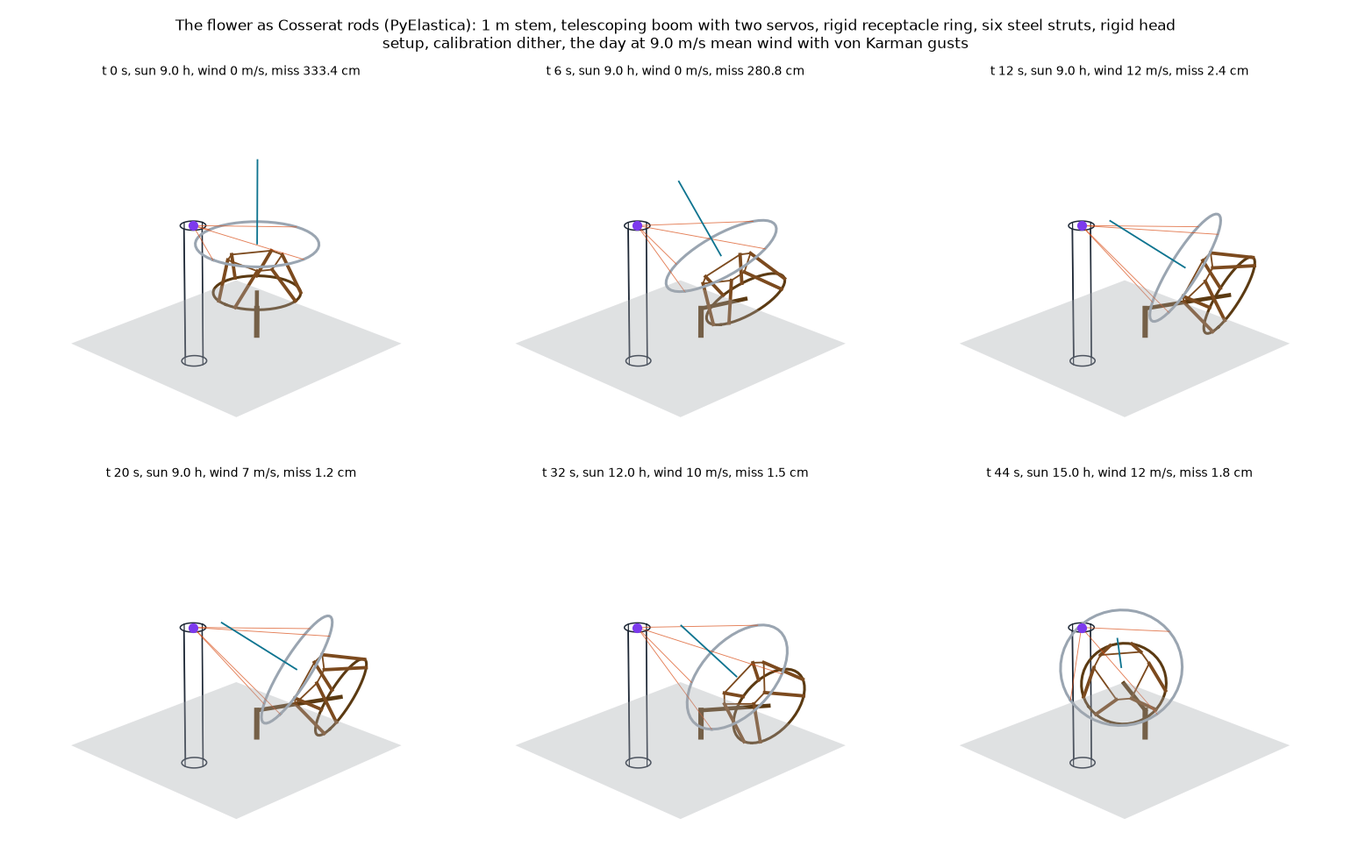
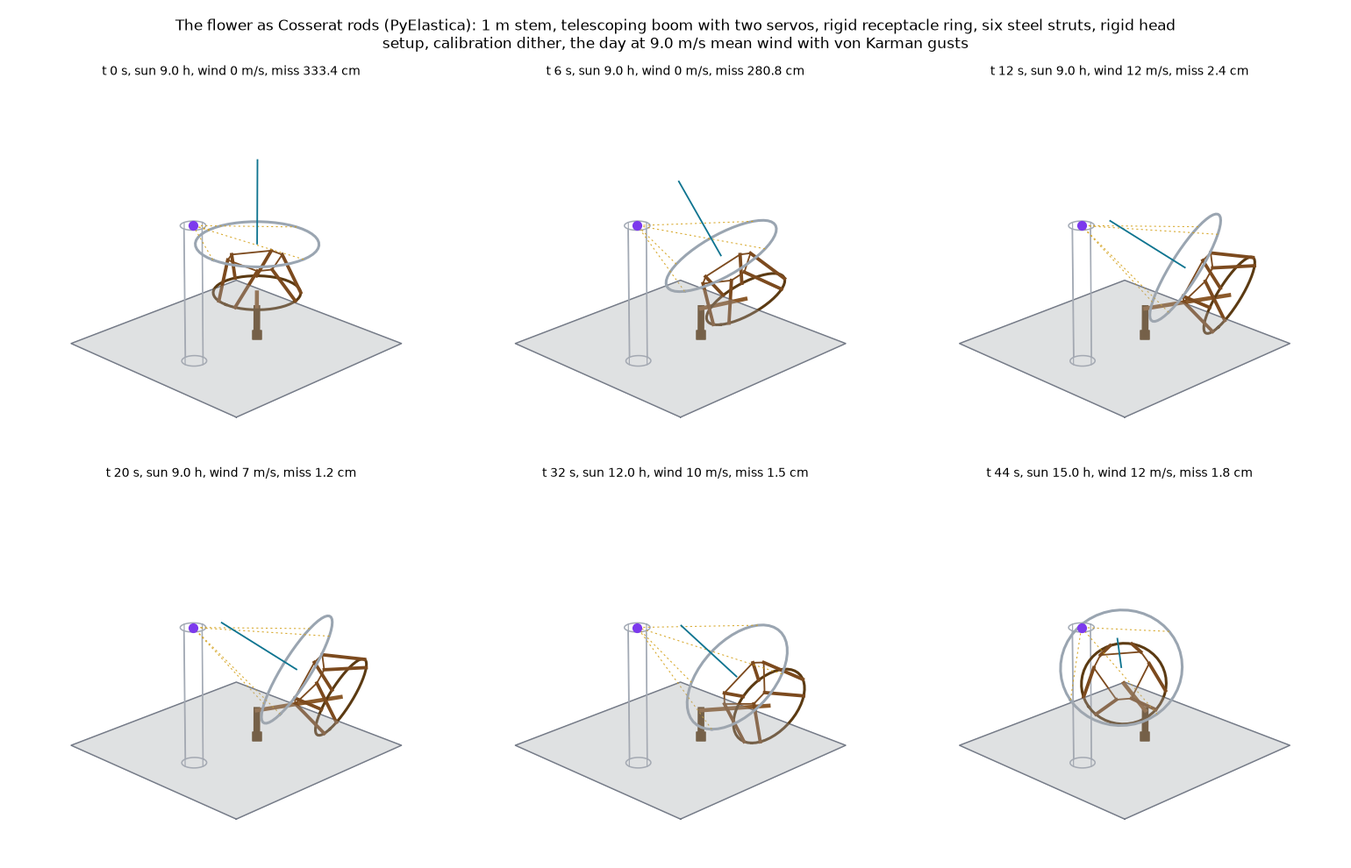
Figures that show a checkable quantity: the flexure ball as a dimensioned section with stress and stiffness against the clip; the membrane's slope change; the ring's motion around the rim; the trusses in plan; films with the stem on the deck, the pedicel labelled, rays as light

diff --git a/tutorials/design/compliant/stage3/topopt/fact_ball.py b/tutorials/design/compliant/stage3/topopt/fact_ball.py
@@ -90,29 +90,42 @@ say(f"  the joint: {k_joint/1e6:.0f} MN/m axially = {k_joint/EA_L:.2f} x the str
 say(f"  image walk from the joints' compliance at the runs' maximum strut force: {1e3*2*P_run/k_joint*2*4.0/L_LEG:.2f} mm at F per leg; twelve joints, 72 blades, no bearings, no backlash, no lubrication; the loop's clip becomes +-{1e3*clip:.0f} mm in both simulations.")
 json.dump(dict(theta_deg=float(np.degrees(theta)), clip_mm=1e3*clip, theta_run_deg=float(np.degrees(theta_run)), dl_run_mm=1e3*dl_runs, P_strut_run=P_run, P_leg=Pleg, P_leg_survival=Pleg_s, blade=dict(t_mm=1e3*t, w_mm=1e3*w, L_mm=1e3*Lb, sigma_MPa=sig/1e6, P_cr=Pcr, s1_mm=1e3*s1, s2_mm=1e3*s2), k_joint_MN_m=k_joint/1e6, k_ratio=k_joint/EA_L, lines=lines), open(os.path.join(OUT, "fact_ball.json"), "w"), indent=1)
 open(os.path.join(OUT, "fact_ball.txt"), "w").write("\n".join(lines) + "\n")
-# ---- figure: the four steps as pictures
-fig = plt.figure(figsize=(14, 4.2))
-def seg(ax, p, q, **kw): ax.plot([p[0], q[0]], [p[1], q[1]], [p[2], q[2]], **kw)
-ax = fig.add_subplot(1, 4, 1, projection="3d"); ax.set_title("1  desired DOFs: 3 rotations about C", fontsize=9)
-for a in np.eye(3): seg(ax, C - 0.08*a, C + 0.08*a, color="#0e7490", lw=2)
-seg(ax, C, C - 0.12*zhat, color="#7c4a1e", lw=6); ax.scatter(*C, color="k", s=30)
-ax = fig.add_subplot(1, 4, 2, projection="3d"); ax.set_title("2  constraint space: every line through C", fontsize=9)
-for p in np.linspace(0, np.pi, 8):
-    for q in np.linspace(0, np.pi, 4):
-        d = np.array([np.sin(q)*np.cos(p), np.sin(q)*np.sin(p), np.cos(q)]); seg(ax, C - 0.1*d, C + 0.1*d, color="#9aa5b1", lw=0.6)
-ax.scatter(*C, color="k", s=30)
-ax = fig.add_subplot(1, 4, 3, projection="3d"); ax.set_title("3  three independent lines: the tripod of wires", fontsize=9)
-for p in np.radians([0, 120, 240]):
-    d = np.array([np.sin(alpha)*np.cos(p), np.sin(alpha)*np.sin(p), np.cos(alpha)]); seg(ax, C, C + 0.1*d, color="#d9480f", lw=2)
-seg(ax, C, C - 0.12*zhat, color="#7c4a1e", lw=6); ax.scatter(*C, color="k", s=30)
-ax = fig.add_subplot(1, 4, 4, projection="3d"); ax.set_title("4  each wire = two orthogonal blades in series (Fig. 6.7a)", fontsize=9)
-for p in np.radians([0, 120, 240]):
-    d = np.array([np.sin(alpha)*np.cos(p), np.sin(alpha)*np.sin(p), np.cos(alpha)]); a = np.cross(d, [0, 0, 1.0]); a /= np.linalg.norm(a); b = np.cross(d, a)
-    for s0, n_ in ((0.01, a), (0.055, b)):
-        c0 = C + s0*d; u_ = np.cross(n_, d); pts = np.array([c0 + 0.02*d*sx + 0.012*u_*sy for sx, sy in ((0, -1), (1, -1), (1, 1), (0, 1), (0, -1))])
-        ax.plot(pts[:, 0], pts[:, 1], pts[:, 2], color="#d9480f", lw=1.5)
-seg(ax, C, C - 0.12*zhat, color="#7c4a1e", lw=6); ax.scatter(*C, color="k", s=30)
-for ax in fig.axes:
-    ax.set_xlim(-0.12, 0.12); ax.set_ylim(-0.12, 0.12); ax.set_zlim(-0.12, 0.12); ax.set_axis_off(); ax.view_init(22, -50)
-fig.suptitle("Chapter 6 (Hopkins, FACT) step by step on the flower's strut joints: a flexure ball at each of the twelve strut ends", fontsize=11)
+# ---- figure: a dimensioned section of one leg, and the design trade against the loop's clip
+fig = plt.figure(figsize=(15, 5.2))
+ax = fig.add_subplot(1, 3, 1); ax.set_aspect("equal"); ax.set_title(f"one leg of the flexure ball, section (mm): blades {1e3*t:.1f} x {1e3*w:.0f} (into the page) x {1e3*Lb:.0f} free", fontsize=9)
+d2 = np.array([np.sin(alpha), np.cos(alpha)]); n2 = np.array([np.cos(alpha), -np.sin(alpha)])          # the leg in the section plane, and its normal
+ax.plot([0, 0], [0, -60], color="#7c4a1e", lw=10, solid_capstyle="butt"); ax.text(4, -45, "strut 85 x 5.3", fontsize=8, color="#7c4a1e")
+for p_ in (0, 120, 240):
+    lw_ = 1.0 if p_ else 2.5; dd = np.array([np.sin(alpha)*np.cos(np.radians(p_)), np.cos(alpha)])
+    ax.plot([0, 70*dd[0]], [0, 70*dd[1]], color="#9aa5b1", lw=lw_, ls="-" if p_ == 0 else ":")
+for s_, lab in ((s1, "blade 1"), (s2, "blade 2")):
+    c = 1e3*s_*d2; a_, b_ = c - 0.5e3*Lb*d2, c + 0.5e3*Lb*d2
+    ax.plot([a_[0], b_[0]], [a_[1], b_[1]], color="#d9480f", lw=6, solid_capstyle="butt"); ax.annotate("", xy=c, xytext=(0, 0), arrowprops=dict(arrowstyle="<->", color="#0e7490", lw=0.8, shrinkA=0, shrinkB=0))
+    ax.text(c[0] + 6, c[1] - 2, f"{lab}: s_mid {1e3*s_:.0f} mm, factor {k_amp(s_, Lb):.0f}", fontsize=8)
+for s_ in (s1, s2):
+    for sgn in (-1, 1):
+        c = 1e3*s_*d2 + sgn*0.5e3*Lb*d2; ax.plot([c[0], c[0] + 12*n2[0]], [c[1], c[1] + 12*n2[1]], color="#5b6b7f", lw=0.6)
+ax.scatter([0], [0], color="k", s=30, zorder=5); ax.text(-22, 3, "C", fontsize=10)
+ax.text(2, 62, f"legs at {np.degrees(alpha):.0f} deg to the strut axis, 120 deg apart (dotted: the other two)", fontsize=8)
+ax.set_xlim(-30, 80); ax.set_ylim(-65, 75); ax.set_xlabel("mm"); ax.set_ylabel("mm along the strut axis")
+ax = fig.add_subplot(1, 3, 2); clips = np.array([5, 10, 15, 20, 30, 40, 60])*1e-3; ths = KIN*clips/L_LEG
+for t_, w_, Lb_, col in ((0.8e-3, 120e-3, 20e-3, "#d9480f"), (1.0e-3, 120e-3, 50e-3, "#7c4a1e"), (0.5e-3, 120e-3, 12e-3, "#0e7490")):
+    s2_ = 2*GAP + 1.5*Lb_; sig_ = k_amp(s2_, Lb_)*E_ti*t_*ths/(2*Lb_); ax.plot(1e3*clips, sig_/1e6, color=col, lw=1.5, label=f"t {1e3*t_:.1f}, L {1e3*Lb_:.0f} mm: Euler {4*np.pi**2*E_ti*w_*t_**3/12/Lb_**2/1e3:.0f} kN, joint {3*np.cos(alpha)**2*E_ti*w_*t_/Lb_/2/1e6:.0f} MN/m")
+ax.axhline(0.5*sig_ti/1e6, color="k", lw=0.8, ls="--"); ax.text(6, 0.5*sig_ti/1e6 + 15, "0.5 sigma_y Ti 6Al-4V", fontsize=8)
+ax.axvline(1e3*dl_runs, color="#9aa5b1", lw=0.8); ax.text(1e3*dl_runs + 1, 60, f"the runs used {1e3*dl_runs:.0f} mm", fontsize=8, color="#5b6b7f"); ax.axvline(1e3*clip, color="#d9480f", lw=0.8); ax.text(1e3*clip + 1, 120, f"clip chosen +-{1e3*clip:.0f} mm", fontsize=8, color="#d9480f")
+ax.set_xlabel("loop clip on a leg's length correction (mm)"); ax.set_ylabel("outer blade's bending stress (MPa)"); ax.set_ylim(0, 1400); ax.legend(fontsize=7, loc="upper left"); ax.set_title("the trade: stress at the clip, for blades that hold SF 3 on Euler at survival", fontsize=9)
+ax = fig.add_subplot(1, 3, 3); crit = []
+for c_ in clips:
+    th_ = KIN*c_/L_LEG; bst = None
+    for t_ in (0.3e-3, 0.5e-3, 0.8e-3, 1.0e-3, 1.5e-3, 2.0e-3, 3.0e-3):
+        for w_ in (20e-3, 40e-3, 60e-3, 90e-3, 120e-3):
+            for Lb_ in (5e-3, 8e-3, 12e-3, 20e-3, 30e-3, 50e-3):
+                s2_ = 2*GAP + 1.5*Lb_; sg = k_amp(s2_, Lb_)*E_ti*t_*th_/(2*Lb_); Pc = 4*np.pi**2*E_ti*w_*t_**3/12/Lb_**2; kj = 3*np.cos(alpha)**2*E_ti*w_*t_/Lb_/2
+                if sg < 0.5*sig_ti and Pc > 3*Pleg_s and (bst is None or kj > bst): bst = kj
+    crit.append(bst/EA_L if bst else np.nan)
+ax.plot(1e3*clips, crit, "o-", color="#0e7490"); ax.axhline(1.0, color="k", lw=0.8, ls="--"); ax.text(6, 1.05, "the strut's own EA/L", fontsize=8)
+ax.set_xlabel("loop clip (mm)"); ax.set_ylabel("stiffest feasible joint / the strut's EA/L"); ax.set_title("what the clip buys: joint stiffness (no blade is feasible beyond 30 mm)", fontsize=9)
+for c_, v in zip(clips, crit):
+    if np.isfinite(v): ax.text(1e3*c_ + 0.5, v + 0.15, f"{100/(1 + 2/v):.0f} % leg", fontsize=7)
+fig.suptitle("Chapter 6 (Hopkins, FACT) on the strut joints: a flexure ball at each strut end, its blades sized against the loop's clip", fontsize=10)
 fig.tight_layout(); fig.savefig(os.path.join(OUT, "fact_ball.png"), dpi=110); print("figure written")

diff --git a/tutorials/design/compliant/stage3/topopt/ground_truss.py b/tutorials/design/compliant/stage3/topopt/ground_truss.py
@@ -61,26 +61,26 @@ def optimise(tr, f, objective, vol_frac, amax, out_dof=None, iters=150, amin_rel
         if it > 30 and ch < 1e-4: break
     K = tr.stiffness(A); u = tr.solve(K, f); return A, u, hist
 KEEP = 0.05                                                                                    # one threshold for the picture and the count: members above 5 % of the cap
-def draw(ax, tr, A, amax, u=None, scale=0.0, title="", loads=None, supports=None, keep=KEEP):
-    amax_e = A.max()
-    for e in range(len(tr.M)):
+def draw(ax, tr, A, amax, u=None, scale=0.0, title="", loads=None, supports=None, keep=KEEP, proj=(0, 1)):
+    """2-D: as is; 3-D: a projection onto the axes `proj` (plan (0, 1) or elevation (0, 2)), width = area, darkness = area"""
+    amax_e = A.max(); P = lambda v: (v[proj[0]], v[proj[1]])
+    for e in np.argsort(A):
         if A[e] < keep*amax: continue
         i, j = tr.M[e]; p, q = tr.X[i], tr.X[j]
         if u is not None and scale: p = p + scale*u[tr.dim*i: tr.dim*i + tr.dim]; q = q + scale*u[tr.dim*j: tr.dim*j + tr.dim]
         g = 0.85*(1 - A[e]/amax_e); lw = 0.5 + 4.5*A[e]/amax_e
-        if tr.dim == 2: ax.plot([p[0], q[0]], [p[1], q[1]], color=(g, g, g), lw=lw, solid_capstyle="round")
-        else: ax.plot([p[0], q[0]], [p[1], q[1]], [p[2], q[2]], color=(g, g, g), lw=lw)
+        (px, py), (qx, qy) = (p, q) if tr.dim == 2 else (P(p), P(q)); ax.plot([px, qx], [py, qy], color=(g, g, g), lw=lw, solid_capstyle="round")
     if loads is not None:
         for node, vec in loads:
             p = tr.X[node]; v = np.asarray(vec, float); v = 0.15*np.ptp(tr.X, axis=0).max()*v/np.linalg.norm(v)
-            if tr.dim == 2: ax.annotate("", xy=p + v, xytext=p, arrowprops=dict(arrowstyle="->", color="#d9480f", lw=1.5))
-            else: ax.quiver(*p, *v, color="#d9480f")
+            ax.annotate("", xy=p + v, xytext=p, arrowprops=dict(arrowstyle="->", color="#d9480f", lw=1.5))
     if supports is not None:
         S = tr.X[list(supports)]
         if tr.dim == 2: ax.plot(S[:, 0], S[:, 1], "^", color="#0e7490", ms=7)
-        else: ax.scatter(S[:, 0], S[:, 1], S[:, 2], color="#0e7490", s=30)
-    ax.set_title(title, fontsize=9); ax.set_aspect("equal") if tr.dim == 2 else None
+        else: ax.plot(S[:, proj[0]], S[:, proj[1]], "o", color="#0e7490", ms=7, zorder=5)
+    ax.set_title(title, fontsize=9); ax.set_aspect("equal")
     if tr.dim == 2: ax.set_axis_off()
+    else: ax.set_xlabel("xyz"[proj[0]] + " (m)"); ax.set_ylabel("xyz"[proj[1]] + " (m)")
 # ------------------------------------------------------------------------------------------------------ chapter validations
 def grid2d(nx, ny, w, h):
     X = np.array([[w*i/nx, h*j/ny] for j in range(ny + 1) for i in range(nx + 1)]); idx = lambda i, j: j*(nx + 1) + i; return X, idx
@@ -161,8 +161,10 @@ if __name__ == "__main__":
     ax = fig.add_subplot(2, 3, 2); draw(ax, tr, A, 1.0, title=f"after Fig. 7.5: pliers-like half problem, ground structure\njaw u_out {info['u_out']:+.3f} for handle u_in {info['u_in']:+.3f}", loads=info["loads"], supports=info["supports"])
     ax = fig.add_subplot(2, 3, 5); draw(ax, tr, A, 1.0, u=u, scale=0.5, title="deformed (x0.5)", loads=info["loads"], supports=info["supports"])
     tr, A, u, f, info = case_calyx(); rep["calyx"] = {k: v for k, v in info.items() if k != "supports"}
-    ax = fig.add_subplot(2, 3, 3, projection="3d"); draw(ax, tr, A, 6e-4, title=f"the calyx: rim to six anchors, 15 m/s peak\n{info['n_members']} members, {info['mass']:.0f} kg Al, rim tilt {info['rim_tilt_mrad']:.2f} mrad", supports=info["supports"]); ax.view_init(30, -60)
+    ax = fig.add_subplot(2, 3, 3); draw(ax, tr, A, 6e-4, title=f"the calyx in plan: rim (r 2.1) to the six anchors (blue, r 1.0), 15 m/s peak\n{info['n_members']} members above 5 %, {info['mass']:.0f} kg Al asked, rim tilt {info['rim_tilt_mrad']:.2f} mrad", supports=info["supports"], proj=(0, 1))
+    th_ = np.linspace(0, 2*np.pi, 100); ax.plot(2.1*np.cos(th_), 2.1*np.sin(th_), color="#9aa5b1", lw=0.8, ls="--")
     tr, A, u, f, info = case_receptacle(); rep["receptacle"] = {k: v for k, v in info.items() if k != "supports"}
-    ax = fig.add_subplot(2, 3, 6, projection="3d"); draw(ax, tr, A, 6e-4, title=f"the receptacle ring: six anchors to the wrist, +-3.5 kN\n{info['n_members']} members, {info['mass']:.0f} kg Al, anchor {info['anchor_disp_mm']:.2f} mm", supports=info["supports"]); ax.view_init(40, -60)
+    ax = fig.add_subplot(2, 3, 6); draw(ax, tr, A, 6e-4, title=f"the receptacle in plan: the six strut anchors (r 1.5, +-3.5 kN alternating) to the wrist (blue, centre)\n{info['n_members']} members above 5 %, {info['mass']:.0f} kg Al asked, anchor moves {info['anchor_disp_mm']:.1f} mm", supports=info["supports"], proj=(0, 1))
+    for k in range(6): ax.plot(tr.X[k, 0], tr.X[k, 1], "s", color="#d9480f", ms=6)
     fig.suptitle("Chapter 7 by ground structure (Frecker): the book's two examples, then the flower's calyx and receptacle as minimum-compliance trusses", fontsize=11)
     fig.tight_layout(); fig.savefig(os.path.join(OUT, "ground_truss.png"), dpi=110); json.dump(rep, open(os.path.join(OUT, "ground_truss.json"), "w"), indent=1); print(json.dumps(rep, indent=1))

diff --git a/tutorials/design/compliant/stage3/topopt/ring_calyx.py b/tutorials/design/compliant/stage3/topopt/ring_calyx.py
@@ -162,16 +162,23 @@ json.dump(dict(T_pre=T_PRE, dp=DP, sag_mm=1e3*w0, N_rim=N_rim, slope_rim_deg=np.
                harm_static_mm=(1e3*hw_s).tolist(), harm_wind_axial_mm=(1e3*hw_d).tolist(), harm_wind_radial_mm=(1e3*hr_d).tolist(), tilt_mrad=1e3*tilt, walk_cm=1e2*walk, fig_rms_mrad=1e3*rms_fig, lines=lines), open(os.path.join(OUT, "ring_calyx.json"), "w"), indent=1)
 open(os.path.join(OUT, "ring_calyx.txt"), "w").write("\n".join(lines) + "\n")
 # ------------------------------------------------------------------ figure
-fig = plt.figure(figsize=(15, 5))
-ax = fig.add_subplot(1, 3, 1, projection="3d"); ax.set_title(f"ring (Al {1e3*D_R:.0f} x {1e3*T_R:.0f}) and the spider the ground structure kept: {int(kept.sum())} bars, {m_spider:.0f} kg", fontsize=9)
-for i, j in frame_el: ax.plot(*zip(X[i], X[j]), color="#5b3a12", lw=2.5)
-for e in range(len(M)):
+fig = plt.figure(figsize=(16, 5))
+ax = fig.add_subplot(1, 3, 1); ax.set_aspect("equal"); ax.set_title(f"plan: the ring (Al {1e3*D_R:.0f} x {1e3*T_R:.0f}) and the spider's {int(kept.sum())} bars to the six anchors (blue), width = area", fontsize=9)
+thr = np.linspace(0, 2*np.pi, 200); ax.plot(A_M*np.cos(thr), A_M*np.sin(thr), color="#5b3a12", lw=3)
+for e in np.argsort(A):
     if A[e] < 0.05*amax: continue
-    i, j = M[e]; g_ = 0.8*(1 - A[e]/A.max()); ax.plot(*zip(X[i], X[j]), color=(g_, g_, g_), lw=0.5 + 3*A[e]/A.max())
-ax.scatter(X[n_anchor0:n_anchor0 + 6, 0], X[n_anchor0:n_anchor0 + 6, 1], X[n_anchor0:n_anchor0 + 6, 2], color="#0e7490", s=30); ax.view_init(28, -60); ax.set_axis_off()
-ax = fig.add_subplot(1, 3, 2); w_img = res1["w"].numpy() - res0["w"].numpy(); w_img[~res1["inside"].numpy()] = np.nan
-im = ax.imshow(1e3*w_img.T, origin="lower", extent=[-ext, ext, -ext, ext], cmap="RdBu_r"); plt.colorbar(im, ax=ax, label="mm"); ax.set_title(f"the gust's change of the membrane (2-D FvK), rms slope error {1e3*se0:.2f} -> {1e3*se1:.2f} mrad", fontsize=9)
-ax = fig.add_subplot(1, 3, 3); nn = np.arange(7); ax.bar(nn - 0.2, 1e3*hw_d, 0.4, label="axial (mm)"); ax.bar(nn + 0.2, 1e3*hr_d, 0.4, label="radial (mm)"); ax.set_xlabel("harmonic n around the rim"); ax.set_yscale("log"); ax.legend(fontsize=8)
-ax.set_title(f"the ring's motion under the gust: n1 tilt {1e2*walk:.2f} cm at F, n>=2 figure {1e2*2*rms_fig*F_DES:.2f} cm", fontsize=9)
-fig.suptitle(f"The head as built: Mylar on a ring, pumped to f 4 at {DP:.0f} Pa; the gust at {V_PEAK} m/s through the membrane into the ring and the spider (chapter 7's ground structure) to the six anchors", fontsize=10)
+    i, j = M[e]; ax.plot([X[i, 0], X[j, 0]], [X[i, 1], X[j, 1]], color="#4a5568", lw=0.3 + 4*A[e]/A.max(), alpha=0.85)
+ax.scatter(X[n_anchor0:n_anchor0 + 6, 0], X[n_anchor0:n_anchor0 + 6, 1], color="#0e7490", s=50, zorder=5)
+for k in range(6): ax.text(X[n_anchor0 + k, 0]*1.12, X[n_anchor0 + k, 1]*1.12, f"A{k}", fontsize=8, color="#0e7490", ha="center")
+ax.annotate("wind (S)", xy=(1.9, -2.3), xytext=(0.9, -2.3), arrowprops=dict(arrowstyle="->", color="#d9480f"), fontsize=8, color="#d9480f")
+ax.set_xlim(-2.4, 2.4); ax.set_ylim(-2.5, 2.4); ax.set_xlabel("x north (m)"); ax.set_ylabel("y (m)")
+ax = fig.add_subplot(1, 3, 2); w_static = 1e3*w_s; w_gust = 1e3*w_d; ur_gust = 1e3*ur_d
+ax.plot(np.degrees(th_r), w_static - w_static.mean(), color="#9aa5b1", lw=1.2, label=f"film's pull alone, axial minus its {w_static.mean():.2f} mm piston")
+ax.plot(np.degrees(th_r), w_gust, color="#d9480f", lw=1.8, label="the gust adds, axial")
+ax.plot(np.degrees(th_r), ur_gust, color="#0e7490", lw=1.2, ls="--", label="the gust adds, radial")
+for k in range(6): ax.axvline(np.degrees(np.arctan2(X[n_anchor0 + k, 1], X[n_anchor0 + k, 0])) % 360, color="#0e7490", lw=0.5, alpha=0.5)
+ax.axhline(0, color="k", lw=0.5); ax.set_xlabel("position around the rim (deg from north)"); ax.set_ylabel("rim displacement (mm)"); ax.legend(fontsize=7, loc="upper right"); ax.set_title("how the rim moves under the 15 m/s gust (anchor azimuths as thin lines)", fontsize=9)
+ax = fig.add_subplot(1, 3, 3); nn = np.arange(7); ax.bar(nn - 0.2, 1e3*hw_d, 0.4, color="#d9480f", label="axial (mm)"); ax.bar(nn + 0.2, 1e3*hr_d, 0.4, color="#0e7490", label="radial (mm)"); ax.set_xlabel("harmonic n around the rim"); ax.set_yscale("log"); ax.legend(fontsize=8)
+ax.set_title(f"the same as harmonics: n 1 tilts the film ({1e2*walk:.2f} cm at F), n >= 2 bends it ({1e2*2*rms_fig*F_DES:.2f} cm of blur)", fontsize=9)
+fig.suptitle(f"The head as built: Mylar on a ring, pumped to f 4 at {DP:.0f} Pa; the film's pull ({2*np.pi*A_M*q_line_z/1e3:.0f} kN) and the 15 m/s gust into the ring and the spider (ground structure) to the six anchors", fontsize=10)
 fig.tight_layout(); fig.savefig(os.path.join(OUT, "ring_calyx.png"), dpi=110); print("figure written")

diff --git a/tutorials/design/compliant/stage3/topopt/membrane_wind.py b/tutorials/design/compliant/stage3/topopt/membrane_wind.py
@@ -85,14 +85,16 @@ say(f"   what the seal costs: temperature: 1 K on the trapped air is {P_ATM/293:
 say(f"   what stays: the gradient of item 4 (zero volume change, the seal does nothing): {1e3*(0.5*RHO_AIR*81*8*CM)*FIG_PER_PA:.2f} / {1e3*(0.5*RHO_AIR*144*8*CM)*FIG_PER_PA:.2f} / {1e3*(0.5*RHO_AIR*225*8*CM)*FIG_PER_PA:.2f} mrad rms of figure at 9 / 12 / 15 m/s, {1e2*2*(0.5*RHO_AIR*81*8*CM)*FIG_PER_PA*F_DES:.1f} / {1e2*2*(0.5*RHO_AIR*144*8*CM)*FIG_PER_PA*F_DES:.1f} / {1e2*2*(0.5*RHO_AIR*225*8*CM)*FIG_PER_PA*F_DES:.1f} cm at F, the membrane's floor under wind")
 json.dump(dict(P0=P0, f0=f0, df_dp=df_dp, V0_L=1e3*V0, dV_dp_L_per_Pa=1e3*dV_dp, gas_stiffness_ratio=gas, sealed_pass=atten, tilt_per_Pa=TILT_PER_PA, fig_per_Pa=FIG_PER_PA, rms_dslope_per_50Pa=rms_dslope_50, rows=rows, T_mean=Tm, mean2d_mrad=1e3*tilt2d, rms2d_mrad=1e3*fig2d, lines=lines), open(os.path.join(OUT, "membrane_wind.json"), "w"), indent=1)
 open(os.path.join(OUT, "membrane_wind.txt"), "w").write("\n".join(lines) + "\n")
-fig = plt.figure(figsize=(15, 4.6))
-ax = fig.add_subplot(1, 3, 1); ax.plot(r, np.degrees(np.abs(sp0)), label=f"at work, {P0:.0f} Pa"); ax.plot(r, np.degrees(np.abs(sp1)), label="+50 Pa uniform (wind)"); ax.set_xlabel("r (m)"); ax.set_ylabel("surface slope (deg)"); ax.legend(fontsize=8); ax.set_title(f"1-D zoned FvK: f {f0:.2f} -> {f1:.2f} m for +50 Pa", fontsize=9)
+fig = plt.figure(figsize=(16, 4.8))
+ax = fig.add_subplot(1, 3, 1); ax.plot(r, 1e3*dslope, color="#d9480f", label=f"+50 Pa on the differential: f {f0:.2f} -> {f1:.2f} m, {1e3*rms_dslope_50:.1f} mrad rms")
+ax.plot(r, 1e3*dslope*atten*58.4/50, color="#0e7490", label=f"the 9 m/s mean through a sealed plenum ({atten*58.4:.1f} Pa reaches the film)")
+ax.axhline(0, color="k", lw=0.5); ax.set_xlabel("r (m)"); ax.set_ylabel("change of surface slope (mrad)"); ax.legend(fontsize=7, loc="upper left"); ax.set_title("1-D zoned FvK: what a uniform pressure change does to the slope", fontsize=9)
 ax = fig.add_subplot(1, 3, 2); fcs = np.logspace(-3, 1, 60)
 for U in (9.0, 12.0, 15.0):
     sig_p = RHO_AIR*U*(IU*U)*CD; ax.plot(fcs, [blur_cm(sig_p*np.sqrt(karman_fraction_above(fc, U))) for fc in fcs], label=f"U {U:.0f} m/s")
 for U, c in ((9.0, "C0"), (12.0, "C1"), (15.0, "C2")): ax.axhline(blur_cm(atten*RHO_AIR*U*(IU*U)*CD), color=c, lw=0.8, ls=":")
 ax.axhline(4.9, color="k", lw=0.8, ls="--"); ax.text(1.2e-3, 5.2, "half power 4.9 cm", fontsize=8); ax.axvline(1/(2*np.pi*20), color="#d9480f", lw=0.8); ax.text(0.009, 2.0, "RL step 20 s", fontsize=8, color="#d9480f"); ax.axvline(0.5, color="#0e7490", lw=0.8); ax.text(0.55, 2.0, "local loop 0.5 Hz", fontsize=8, color="#0e7490"); ax.text(1.2e-3, 0.9*blur_cm(atten*RHO_AIR*9*(IU*9)*CD), "dotted: sealed plenum, whole spectrum", fontsize=8)
-ax.set_xscale("log"); ax.set_yscale("log"); ax.set_xlabel("pressure-control corner frequency (Hz), plenum on a constant-pressure supply"); ax.set_ylabel("defocus blur at F from the gust residual (cm rms)"); ax.legend(fontsize=8); ax.set_title("what a pressure loop leaves of the gusts, and what a sealed plenum leaves", fontsize=9)
-ax = fig.add_subplot(1, 3, 3); im = ax.imshow(1e3*np.where(inside, dw, np.nan).T, origin="lower", extent=[-ext, ext, -ext, ext], cmap="RdBu_r"); plt.colorbar(im, ax=ax, label="mm"); ax.set_title(f"the pitching moment's gradient at 15 m/s (2-D FvK difference): rms slope {1e3*fig2d:.2f} mrad, mean {1e3*tilt2d:.2f}", fontsize=9)
+ax.set_xscale("log"); ax.set_yscale("log"); ax.set_xlabel("pressure-loop corner frequency (Hz), plenum on a constant-pressure supply"); ax.set_ylabel("defocus blur at F from the gust residual (cm rms)"); ax.legend(fontsize=8, loc="lower left"); ax.set_title("gust residual: a pressure loop (curves) against a sealed plenum (dotted)", fontsize=9)
+ax = fig.add_subplot(1, 3, 3); im = ax.imshow(1e3*np.where(inside, dw, np.nan).T, origin="lower", extent=[-ext, ext, -ext, ext], cmap="RdBu_r"); plt.colorbar(im, ax=ax, label="mm"); ax.set_title(f"the gradient's n = 1 mode at 15 m/s (2-D FvK difference, mm): slope {1e3*fig2d:.1f} mrad rms, mean {1e3*tilt2d:.1f}", fontsize=9)
 fig.suptitle("The Mylar membrane under wind: the repo's FvK solvers, hashemi.ini's five zones, von Karman gusts; a pressure loop against a sealed plenum", fontsize=10)
 fig.tight_layout(); fig.savefig(os.path.join(OUT, "membrane_wind.png"), dpi=110); print("figure written")

diff --git a/tutorials/design/compliant/stage3/setup_sim/render_gif_el.py b/tutorials/design/compliant/stage3/setup_sim/render_gif_el.py
@@ -15,19 +15,22 @@ def ring(c, n, r, k=48):
 def draw(ax, k, lab=True):
     fr = FR[k]; l = L[k]; rods = [np.array(r) for r in fr[:NR]]; P, tip = np.array(fr[NR][0]), np.array(fr[NR][1]); nrm = (tip - P)/2.0; C_rec = np.array(fr[NR + 1][0])
     ax.cla(); ax.set_xlim(-2, 6); ax.set_ylim(-4, 4); ax.set_zlim(0, 6); ax.set_box_aspect((8, 8, 6)); ax.view_init(elev=22, azim=-135); ax.set_axis_off()
-    xx, yy = np.meshgrid([-2, 6], [-4, 4]); ax.plot_surface(xx, yy, np.zeros_like(xx), color="#d9dde3", alpha=0.35)
+    xx, yy = np.meshgrid([-2, 6], [-4, 4]); ax.plot_surface(xx, yy, np.zeros_like(xx), color="#d9dde3", alpha=0.35); ax.plot([-2, 6, 6, -2, -2], [-4, -4, 4, 4, -4], [0, 0, 0, 0, 0], color="#6b7280", lw=1.0)
     th = np.linspace(0, 2*np.pi, 40)
-    for z in (0.0, F[2]): ax.plot(PIPE_R*np.cos(th), PIPE_R*np.sin(th), z, color="#1f2937", lw=1)
-    for a in (0, np.pi/2, np.pi, 3*np.pi/2): ax.plot([PIPE_R*np.cos(a)]*2, [PIPE_R*np.sin(a)]*2, [0, F[2]], color="#1f2937", lw=0.8)
-    ax.plot(rods[0][:, 0], rods[0][:, 1], rods[0][:, 2], color="#5b3a12", lw=4)                                   # the stem
-    ax.plot(rods[1][:, 0], rods[1][:, 1], rods[1][:, 2], color="#5b3a12", lw=3)                                   # the pedicel's boom
+    for z in (0.0, F[2]): ax.plot(PIPE_R*np.cos(th), PIPE_R*np.sin(th), z, color="#a3aab5", lw=1)
+    for a in (0, np.pi/2, np.pi, 3*np.pi/2): ax.plot([PIPE_R*np.cos(a)]*2, [PIPE_R*np.sin(a)]*2, [0, F[2]], color="#a3aab5", lw=0.8)
+    if lab: ax.text(0.5, 0.6, F[2] + 0.2, "light pipe on the roof; F at its top", fontsize=6.5, color="#4b5563")
+    ax.plot(rods[0][:, 0], rods[0][:, 1], rods[0][:, 2], color="#5b3a12", lw=5)                                   # the stem
+    ax.plot(rods[1][:, 0], rods[1][:, 1], rods[1][:, 2], color="#8b5a2b", lw=3)                                   # the pedicel's boom
+    ax.scatter(*rods[0][0], color="#5b3a12", s=40, marker="s")
+    if lab: ax.text(rods[0][0, 0] + 0.15, rods[0][0, 1], 0.05, "stem, 1 m, on the deck", fontsize=6.5, color="#5b3a12"); ax.text(rods[1][-1, 0], rods[1][-1, 1], rods[1][-1, 2] + 0.15, "pedicel (telescoping boom) lifts the head", fontsize=6.5, color="#8b5a2b")
     base = np.array([r[0] for r in rods[2:8]]); plat = np.array([r[-1] for r in rods[2:8]])
     nb = np.cross(base[1] - base[0], base[3] - base[0]); nb /= np.linalg.norm(nb)
     rg = ring(C_rec, nb, 1.5); ax.plot(rg[:, 0], rg[:, 1], rg[:, 2], color="#5b3a12", lw=2)                        # the receptacle ring
     pr = np.vstack([plat, plat[:1]]); ax.plot(pr[:, 0], pr[:, 1], pr[:, 2], color="#7c4a1e", lw=1.2)                # the platform ring through the strut heads
     for r in rods[2:8]: ax.plot(r[:, 0], r[:, 1], r[:, 2], color="#7c4a1e", lw=2.5)                                # the struts
     rim = ring(P, nrm, 2.1); ax.plot(rim[:, 0], rim[:, 1], rim[:, 2], color="#9aa5b1", lw=2)                        # the head's rim
-    for i in range(0, 48, 12): ax.plot(*zip(rim[i], F), color="#d9480f", lw=0.6, alpha=0.7)                       # the beam to F
+    for i in range(0, 48, 12): ax.plot(*zip(rim[i], F), color="#d4a017", lw=0.7, ls=(0, (2, 3)), alpha=0.9)            # sunlight reflected to F (dashed: light, not cables)
     ax.scatter(*F, color="#7c3aed", s=40); ax.plot(*zip(P, P + 3*nrm), color="#0e7490", lw=1.2)
     if lab:
         ph = "setup: the pedicel rises, the struts pump" if l["t"] < T_S else ("calibration dither (identification)" if l["t"] < T_S + T_C else "tracking the sun")

diff --git a/tutorials/design/compliant/stage3/setup_sim/render_gif5.py b/tutorials/design/compliant/stage3/setup_sim/render_gif5.py
@@ -10,17 +10,19 @@ T_S, T_C = A["t_setup"], A["t_cal"]; F = Q[0][A["F"]]
 def draw(ax, k, lab=True):
     q = Q[k]; l = L[k]
     ax.cla(); ax.set_xlim(-2, 6); ax.set_ylim(-4, 4); ax.set_zlim(0, 6); ax.set_box_aspect((8, 8, 6)); ax.view_init(elev=22, azim=-135); ax.set_axis_off()
-    xx, yy = np.meshgrid([-2, 6], [-4, 4]); ax.plot_surface(xx, yy, np.zeros_like(xx), color="#d9dde3", alpha=0.35)
+    xx, yy = np.meshgrid([-2, 6], [-4, 4]); ax.plot_surface(xx, yy, np.zeros_like(xx), color="#d9dde3", alpha=0.35); ax.plot([-2, 6, 6, -2, -2], [-4, -4, 4, 4, -4], [0, 0, 0, 0, 0], color="#6b7280", lw=1.0)
     th = np.linspace(0, 2*np.pi, 40); pc, pr = A["pipe"]["c"], A["pipe"]["r"]
-    for z in (0.0, A["pipe"]["z_top"]): ax.plot(pc[0] + pr*np.cos(th), pc[1] + pr*np.sin(th), z, color="#1f2937", lw=1)
-    for a in (0, np.pi/2, np.pi, 3*np.pi/2): ax.plot([pc[0] + pr*np.cos(a)]*2, [pc[1] + pr*np.sin(a)]*2, [0, A["pipe"]["z_top"]], color="#1f2937", lw=0.8)
-    st = A["stem_top"]; ax.plot([st[0]]*2, [st[1]]*2, [0, st[2]], color="#5b3a12", lw=4)                       # the stem
-    B = q[A["base"]]; Cb = B.mean(0); ax.plot(*zip(st, Cb), color="#5b3a12", lw=3)                            # the pedicel's boom to the receptacle
+    for z in (0.0, A["pipe"]["z_top"]): ax.plot(pc[0] + pr*np.cos(th), pc[1] + pr*np.sin(th), z, color="#a3aab5", lw=1)
+    for a in (0, np.pi/2, np.pi, 3*np.pi/2): ax.plot([pc[0] + pr*np.cos(a)]*2, [pc[1] + pr*np.sin(a)]*2, [0, A["pipe"]["z_top"]], color="#a3aab5", lw=0.8)
+    if lab: ax.text(pc[0] + 0.5, pc[1] + 0.6, A["pipe"]["z_top"] + 0.2, "light pipe on the roof; F at its top", fontsize=6.5, color="#4b5563")
+    st = A["stem_top"]; ax.plot([st[0]]*2, [st[1]]*2, [0, st[2]], color="#5b3a12", lw=5); ax.scatter(st[0], st[1], 0, color="#5b3a12", s=40, marker="s")   # the stem, on the deck
+    B = q[A["base"]]; Cb = B.mean(0); ax.plot(*zip(st, Cb), color="#8b5a2b", lw=3)                            # the pedicel's boom to the receptacle
+    if lab: ax.text(st[0] + 0.15, st[1], 0.05, "stem, 1 m, on the deck", fontsize=6.5, color="#5b3a12"); ax.text(Cb[0], Cb[1], Cb[2] + 0.15, "pedicel (telescoping boom) lifts the head", fontsize=6.5, color="#8b5a2b")
     ring = np.vstack([B, B[:1]]); ax.plot(ring[:, 0], ring[:, 1], ring[:, 2], color="#5b3a12", lw=2)         # the receptacle ring on the pedicel
     ax.scatter(*F, color="#7c3aed", s=40)
     for a_, b_ in A["legs"]: ax.plot(*zip(q[a_], q[b_]), color="#7c4a1e", lw=2.5)
     rim = q[A["rim"] + [A["rim"][0]]]; ax.plot(rim[:, 0], rim[:, 1], rim[:, 2], color="#9aa5b1", lw=2)
-    for i in range(0, 8, 2): ax.plot(*zip(q[A["rim"][i]], F), color="#d9480f", lw=0.6, alpha=0.7)
+    for i in range(0, 8, 2): ax.plot(*zip(q[A["rim"][i]], F), color="#d4a017", lw=0.7, ls=(0, (2, 3)), alpha=0.9)
     v = q[A["vtx"]]; nrm = np.array(l["n"]); ax.plot(*zip(v, v + 3*nrm), color="#0e7490", lw=1.2)
     if lab:
         ph = "setup: pumping the six struts" if l["t"] < T_S else ("calibration dither (identification)" if l["t"] < T_S + T_C else "tracking the sun")
